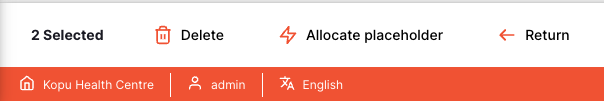
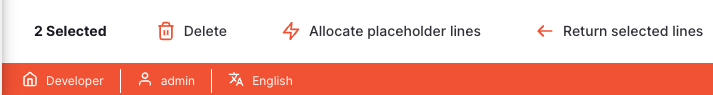
Update outbound shipment with new label translation

diff --git a/content/docs/distribution/outbound_shipments.md b/content/docs/distribution/outbound_shipments.md
@@ -616,9 +616,9 @@ Sometimes, stock sent via an Outbound Shipment will need to be returned. You can
 2. Make sure that status is at least `SHIPPED`
 3. Select the line(s) you want to process the return of by checking the box(es) on the right of the list
 4. The `Actions` footer will display at the bottom of the screen when a shipment line is selected. It will display the number of shipment lines selected and the actions which can be taken.
-5. Select the action `Process return`
+5. Select the action `Return selected lines`.
 
-![OS return lines](/docs/distribution/images/process-return-outbound-shipment-line.gif)
+![OS return lines](/docs/distribution/images/return-selected-outbound-shipment-line.gif)
 
 ### Select quantity returned
 
